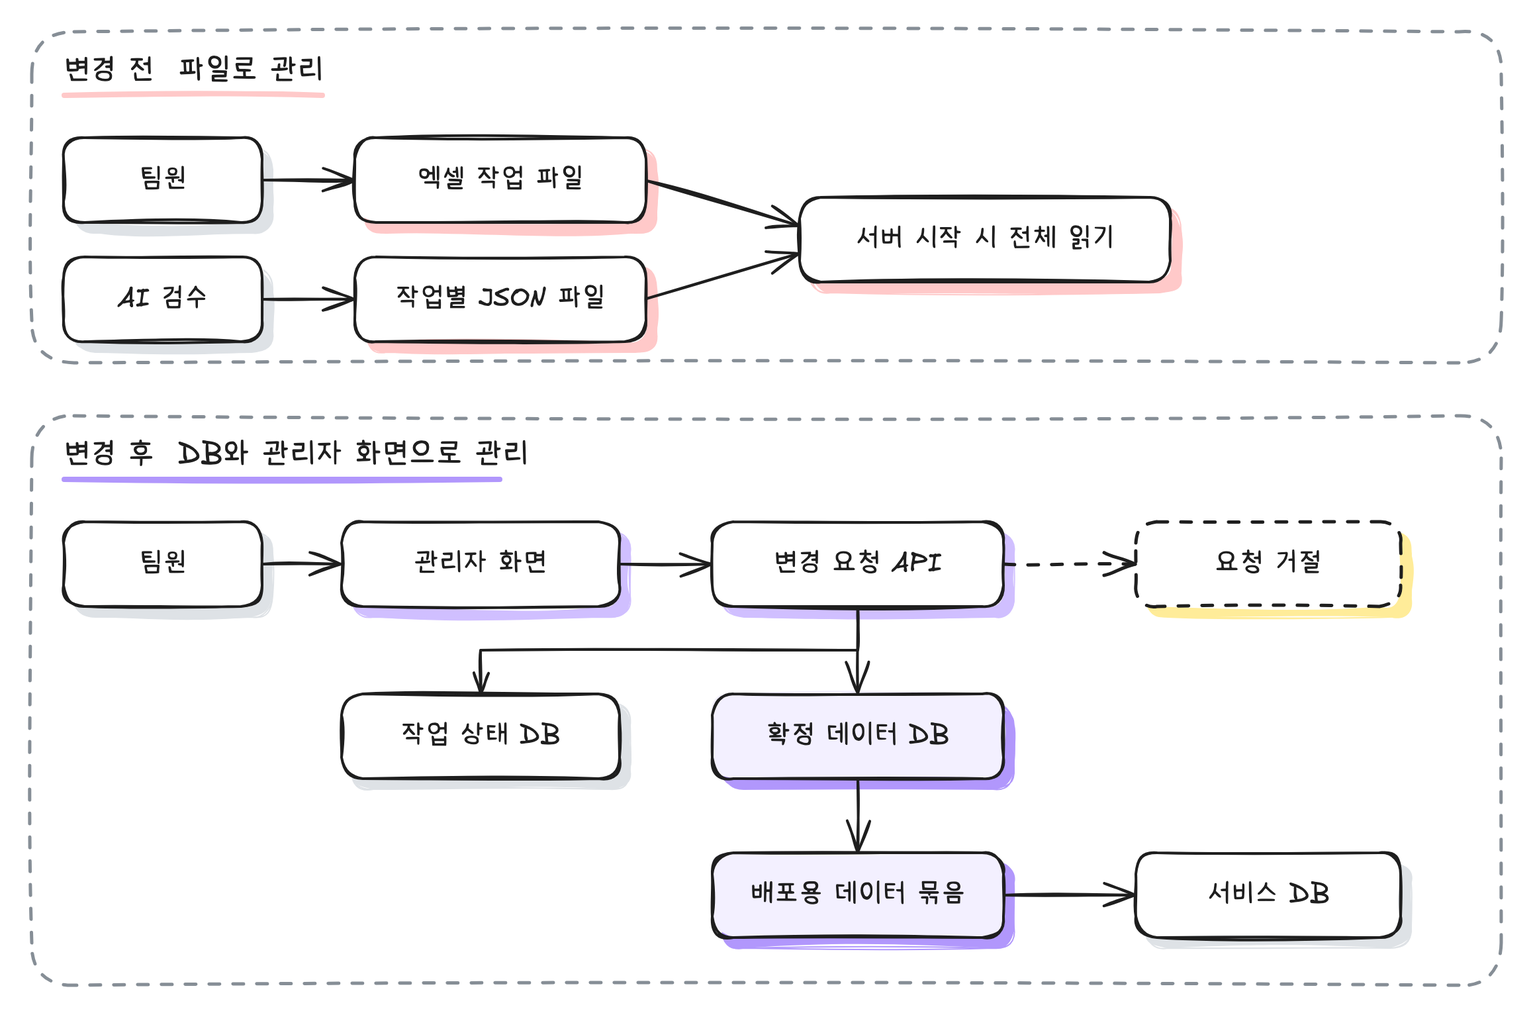
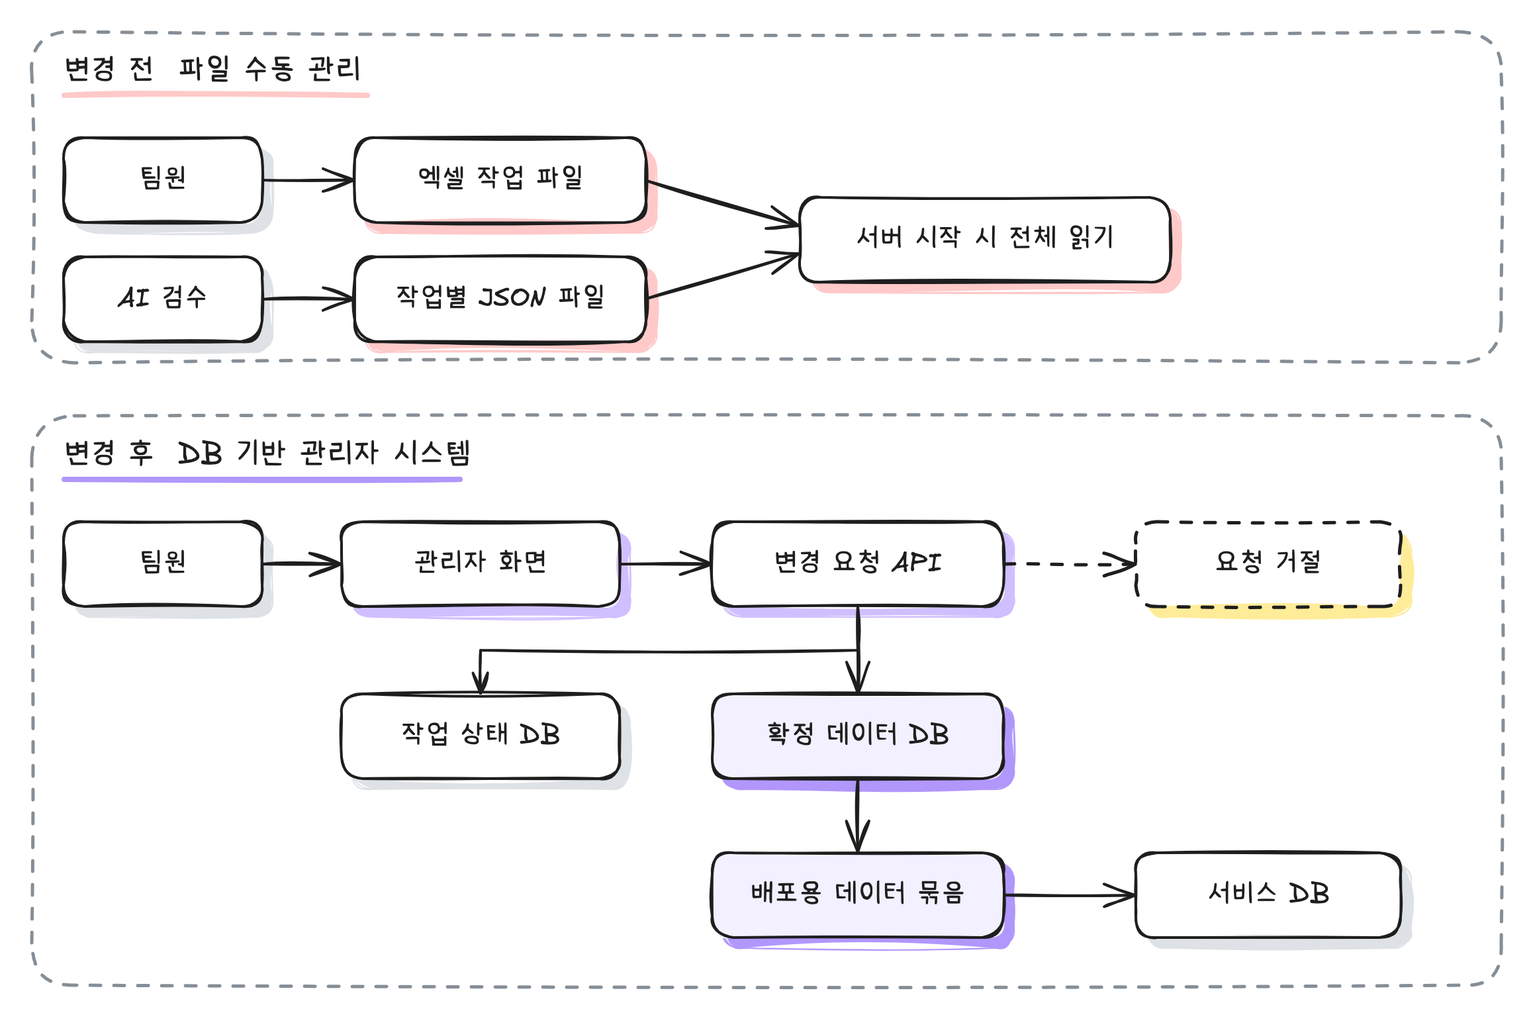
portfolio: 사례 제목과 요약에 기술 용어 보강, 다이어그램 라벨 정리

diff --git a/index.html b/index.html
@@ -45,19 +45,19 @@
       <section id="cases" aria-labelledby="cases-title">
         <div class="sec-title"><h2 id="cases-title">문제 해결 기록</h2><span class="section-en">Selected cases</span></div>
         <ol class="case-index">
-<li><a href="#case-ingredient-admin"><span class="index-no">01</span><span class="index-title">파일로 관리하던 성분 데이터를 관리자 시스템으로 전환</span><span class="index-project">Poudy</span><span class="index-arrow" aria-hidden="true">↗</span></a></li>
-<li><a href="#case-data-pipeline"><span class="index-no">02</span><span class="index-title">파일과 LLM에 의존하던 데이터 처리를 단계별 파이프라인과 오케스트레이션 구조로 전환</span><span class="index-project">Poudy</span><span class="index-arrow" aria-hidden="true">↗</span></a></li>
-<li><a href="#case-poudy-infra"><span class="index-no">03</span><span class="index-title">자동 롤백에 가려 48시간 동안 몰랐던 배포 실패를 알림으로 바로 알 수 있게 개선</span><span class="index-project">Poudy</span><span class="index-arrow" aria-hidden="true">↗</span></a></li>
+<li><a href="#case-ingredient-admin"><span class="index-no">01</span><span class="index-title">파일로 수동 관리하던 성분 데이터를 승인 기반 관리자 시스템으로 전환</span><span class="index-project">Poudy</span><span class="index-arrow" aria-hidden="true">↗</span></a></li>
+<li><a href="#case-data-pipeline"><span class="index-no">02</span><span class="index-title">LLM 판단과 코드 검증을 분리한 3계층 성분 데이터 파이프라인 구축</span><span class="index-project">Poudy</span><span class="index-arrow" aria-hidden="true">↗</span></a></li>
+<li><a href="#case-poudy-infra"><span class="index-no">03</span><span class="index-title">자동 롤백에 가려 48시간 몰랐던 장애를 계기로 Grafana 모니터링과 팀 알림 도입</span><span class="index-project">Poudy</span><span class="index-arrow" aria-hidden="true">↗</span></a></li>
 <li><a href="#case-like"><span class="index-no">04</span><span class="index-title">동시 요청과 재시도로 발생한 좋아요 오류 해결</span><span class="index-project">Layer Archive</span><span class="index-arrow" aria-hidden="true">↗</span></a></li>
-<li><a href="#case-list-query"><span class="index-no">05</span><span class="index-title">게시글마다 이미지를 따로 불러오던 목록 조회 개선</span><span class="index-project">Layer Archive</span><span class="index-arrow" aria-hidden="true">↗</span></a></li>
+<li><a href="#case-list-query"><span class="index-no">05</span><span class="index-title">목록 조회의 N+1 쿼리 해결 (53회 → 4회)</span><span class="index-project">Layer Archive</span><span class="index-arrow" aria-hidden="true">↗</span></a></li>
 </ol>
 <article class="case" id="case-ingredient-admin" aria-labelledby="case-title-1">
   <div class="case-top"><span class="case-no">01</span><span class="proj">Poudy</span><span class="case-context">데이터 관리 / 2026.08 – 현재</span></div>
-  <h3 id="case-title-1">파일로 관리하던 성분 데이터를 관리자 시스템으로 전환</h3>
-  <p class="case-deck">엑셀과 JSON 파일로 관리하던 성분 데이터를 DB와 관리자 화면으로 옮겼습니다. 이제 승인된 변경만 서비스에 반영됩니다.</p>
+  <h3 id="case-title-1">파일로 수동 관리하던 성분 데이터를 승인 기반 관리자 시스템으로 전환</h3>
+  <p class="case-deck">엑셀과 JSON 파일로 나눠 관리하던 성분 데이터를 DB 기반 관리자 시스템으로 옮겼습니다. 변경은 API로만 요청하고 검증과 승인을 통과한 값만 반영되게 해, 파일끼리 값이 어긋나거나 데이터 때문에 서버가 켜지지 않는 문제를 막는 구조를 만들었습니다.</p>
   <figure>
-    <div class="figure-heading"><p class="figure-title">관리 방식 변경 전후</p><a href="assets/diagrams/ingredient-admin.png?v=4be4f8f2" data-diagram aria-label="관리 방식 변경 전후 크게 보기">크게 보기 ↗</a></div>
-    <a class="diagram-link" href="assets/diagrams/ingredient-admin.png?v=4be4f8f2" data-diagram aria-label="관리 방식 변경 전후 이미지 확대"><img class="diagram-image" src="assets/diagrams/ingredient-admin.png?v=4be4f8f2" width="2316" height="1536" alt="변경 전에는 팀원과 AI 검수가 엑셀과 작업별 JSON 파일을 직접 다루고, 서버가 켜질 때 파일 전체를 검사 없이 읽었다. 변경 후에는 관리자 화면에서 API로 변경을 요청하고, 승인된 변경만 확정 데이터에 반영한 뒤 서비스 스키마 검사를 통과한 묶음만 서비스 DB로 보낸다" loading="lazy" decoding="async"></a>
+    <div class="figure-heading"><p class="figure-title">관리 방식 변경 전후</p><a href="assets/diagrams/ingredient-admin.png?v=84834c3f" data-diagram aria-label="관리 방식 변경 전후 크게 보기">크게 보기 ↗</a></div>
+    <a class="diagram-link" href="assets/diagrams/ingredient-admin.png?v=84834c3f" data-diagram aria-label="관리 방식 변경 전후 이미지 확대"><img class="diagram-image" src="assets/diagrams/ingredient-admin.png?v=84834c3f" width="2316" height="1536" alt="변경 전에는 팀원과 AI 검수가 엑셀과 작업별 JSON 파일을 직접 다루고, 서버가 켜질 때 파일 전체를 검사 없이 읽었다. 변경 후에는 관리자 화면에서 API로 변경을 요청하고, 승인된 변경만 확정 데이터에 반영한 뒤 서비스 스키마 검사를 통과한 묶음만 서비스 DB로 보낸다" loading="lazy" decoding="async"></a>
   </figure>
   <div class="psr">
     <div>
@@ -91,11 +91,11 @@
 </article>
 <article class="case" id="case-data-pipeline" aria-labelledby="case-title-2">
   <div class="case-top"><span class="case-no">02</span><span class="proj">Poudy</span><span class="case-context">데이터 파이프라인 / 2026.08 – 현재</span></div>
-  <h3 id="case-title-2">파일과 LLM에 의존하던 데이터 처리를 단계별 파이프라인과 오케스트레이션 구조로 전환</h3>
-  <p class="case-deck">데이터를 원본 보관, 정리와 확정, 서비스 전달 세 단계로 나누고, 단계마다 코드가 할 일과 AI가 할 일을 구분했습니다.</p>
+  <h3 id="case-title-2">LLM 판단과 코드 검증을 분리한 3계층 성분 데이터 파이프라인 구축</h3>
+  <p class="case-deck">성분 데이터를 처리 단계별 3계층(L0 원본 보관, L1 정리와 확정, L2 서비스 전달)으로 나누고, 답이 정해진 검증은 코드가, 판단이 필요한 작업만 LLM이 맡도록 역할을 나눴습니다.</p>
   <figure>
-    <div class="figure-heading"><p class="figure-title">데이터 처리 단계와 원료 한 건의 처리 순서</p><a href="assets/diagrams/data-hub-layers.png?v=2b885413" data-diagram aria-label="데이터 처리 단계와 원료 한 건의 처리 순서 크게 보기">크게 보기 ↗</a></div>
-    <a class="diagram-link" href="assets/diagrams/data-hub-layers.png?v=2b885413" data-diagram aria-label="데이터 처리 단계와 원료 한 건의 처리 순서 이미지 확대"><img class="diagram-image" src="assets/diagrams/data-hub-layers.png?v=2b885413" width="2244" height="1872" alt="데이터를 원본 보관, 정리와 확정, 서비스 전달 세 단계로 나눈다. 원료 한 건은 작업을 가져와 입력을 준비한 뒤 LLM이 근거 찾기, 근거 고르기, 설명과 태그 쓰기, 다른 역할의 검토를 거치고, 규칙 검사 결과에 따라 확정 데이터 반영, 사람 확인 대기, 재시도나 보류로 나뉜다" loading="lazy" decoding="async"></a>
+    <div class="figure-heading"><p class="figure-title">데이터 3계층 구조와 원료 한 건의 처리 흐름</p><a href="assets/diagrams/data-hub-layers.png?v=e1845fb2" data-diagram aria-label="데이터 3계층 구조와 원료 한 건의 처리 흐름 크게 보기">크게 보기 ↗</a></div>
+    <a class="diagram-link" href="assets/diagrams/data-hub-layers.png?v=e1845fb2" data-diagram aria-label="데이터 3계층 구조와 원료 한 건의 처리 흐름 이미지 확대"><img class="diagram-image" src="assets/diagrams/data-hub-layers.png?v=e1845fb2" width="2244" height="1872" alt="데이터를 L0 원본 보관, L1 정리와 확정, L2 서비스 전달 세 계층으로 나눈다. 원료 한 건은 작업을 가져와 입력을 준비한 뒤 LLM이 근거 찾기, 근거 고르기, 설명과 태그 쓰기, 다른 역할의 검토를 거치고, 규칙 검사 결과에 따라 확정 데이터 반영, 사람 확인 대기, 재시도나 보류로 나뉜다" loading="lazy" decoding="async"></a>
   </figure>
   <div class="psr">
     <div>
@@ -109,7 +109,7 @@
     <div>
       <p class="label">해결 과정</p>
       <ul>
-        <li>데이터를 세 단계로 나눴습니다. 받은 원본은 고치지 않고 보관하고, 다음 단계에서 형식을 맞추고 중복과 충돌을 확인한 뒤 승인된 값만 확정합니다. 마지막 단계에서 서비스 스키마에 맞게 묶습니다. 메달리온 구조를 우리 데이터에 맞게 바꿔 적용했습니다.</li>
+        <li>데이터를 세 계층으로 나눴습니다. 받은 원본은 고치지 않고 보관하고, 다음 단계에서 형식을 맞추고 중복과 충돌을 확인한 뒤 승인된 값만 확정합니다. 마지막 단계에서 서비스 스키마에 맞게 묶습니다. 메달리온 구조를 우리 데이터에 맞게 바꿔 적용했습니다.</li>
         <li>단계마다 누가 처리할지 정했습니다. 파일 읽기, 형식 정리, 중복 검사, 배포용 묶음 만들기처럼 답이 정해진 일은 Python 코드가 합니다. 근거 찾기, 설명 쓰기, 검토처럼 판단이 필요한 일만 LLM에게 맡겼습니다.</li>
         <li>LLM 단계는 LangGraph로 묶어 찾기, 고르기, 쓰기, 검토 순서로 흐르게 했습니다. 사람 확인이 필요하면 멈췄다가, 확인한 뒤 같은 자리에서 이어갑니다.</li>
         <li>작업 순서와 재시도는 SQLite로 관리합니다. 시간 초과처럼 다시 하면 풀리는 실패는 잠시 뒤 재시도하고, 다시 물어도 같은 답이 나올 실패는 보류로 돌린 뒤 다음 원료를 처리합니다.</li>
@@ -129,8 +129,8 @@
 </article>
 <article class="case" id="case-poudy-infra" aria-labelledby="case-title-3">
   <div class="case-top"><span class="case-no">03</span><span class="proj">Poudy</span><span class="case-context">배포 / 모니터링 / 2026.09</span></div>
-  <h3 id="case-title-3">자동 롤백에 가려 48시간 동안 몰랐던 배포 실패를 알림으로 바로 알 수 있게 개선</h3>
-  <p class="case-deck">배포가 실패해도 롤백 덕분에 화면은 정상으로 보여 아무도 몰랐던 문제를, 백엔드 프로세스까지 보는 모니터링과 팀 Discord 알림으로 바꿨습니다.</p>
+  <h3 id="case-title-3">자동 롤백에 가려 48시간 몰랐던 장애를 계기로 Grafana 모니터링과 팀 알림 도입</h3>
+  <p class="case-deck">배포가 실패해도 롤백 덕분에 화면은 정상으로 보여 아무도 몰랐던 문제를 계기로, Prometheus, Loki, Grafana로 백엔드 프로세스까지 관측하고 팀 Discord로 알리는 구조를 만들었습니다.</p>
   <figure>
     <div class="figure-heading"><p class="figure-title">운영 구조와 모니터링, 알림 경로</p><a href="assets/diagrams/poudy-monitoring.png?v=5373d349" data-diagram aria-label="운영 구조와 모니터링, 알림 경로 크게 보기">크게 보기 ↗</a></div>
     <a class="diagram-link" href="assets/diagrams/poudy-monitoring.png?v=5373d349" data-diagram aria-label="운영 구조와 모니터링, 알림 경로 이미지 확대"><img class="diagram-image" src="assets/diagrams/poudy-monitoring.png?v=5373d349" width="2428" height="1712" alt="사용자 요청은 Frontend EC2의 Nginx와 Next.js를 거쳐 Backend EC2의 Spring Boot로 가고, Spring Boot는 DB EC2의 PostgreSQL과 S3를 사용한다. Frontend와 Backend EC2의 Alloy가 지표와 로그를 Cloudflare Tunnel을 통해 Monitoring EC2의 Prometheus와 Loki로 보내고, Blackbox의 확인 결과와 함께 Grafana에 모인다. Grafana는 알림을 팀 Discord로 보낸다" loading="lazy" decoding="async"></a>
@@ -166,10 +166,10 @@
 <article class="case" id="case-like" aria-labelledby="case-title-4">
   <div class="case-top"><span class="case-no">04</span><span class="proj">Layer Archive</span><span class="case-context">동시성 / 멱등성 / 2026.07</span></div>
   <h3 id="case-title-4">동시 요청과 재시도로 발생한 좋아요 오류 해결</h3>
-  <p class="case-deck">같은 사용자의 요청이 동시에 들어오면 실패하던 좋아요를 행 잠금으로 순서대로 처리하고, 재시도해도 결과가 같은 API로 바꿨습니다.</p>
+  <p class="case-deck">같은 사용자의 동시 요청에서 나던 중복 오류를 사용자 행 비관적 락(SELECT … FOR UPDATE)으로 순서대로 처리해 없애고, 토글 API를 원하는 상태를 지정하는 방식으로 바꿔 재시도해도 결과가 같도록(멱등성) 했습니다.</p>
   <figure>
-    <div class="figure-heading"><p class="figure-title">동시 요청 처리 변경 전후</p><a href="assets/diagrams/concurrent-likes.png?v=b977023b" data-diagram aria-label="동시 요청 처리 변경 전후 크게 보기">크게 보기 ↗</a></div>
-    <a class="diagram-link" href="assets/diagrams/concurrent-likes.png?v=b977023b" data-diagram aria-label="동시 요청 처리 변경 전후 이미지 확대"><img class="diagram-image" src="assets/diagrams/concurrent-likes.png?v=b977023b" width="2416" height="1336" alt="변경 전에는 요청 A와 B가 동시에 좋아요가 있는지 확인해 둘 다 없음으로 읽고, 둘 다 좋아요를 추가해 한쪽은 성공하고 다른 쪽은 중복 오류가 난다. 변경 후에는 두 요청이 사용자 행 잠금을 거쳐 하나씩 처리되고, A가 좋아요를 추가한 뒤 B는 이미 좋아요라 그대로 두어 좋아요 1개, 오류 없음으로 끝난다" loading="lazy" decoding="async"></a>
+    <div class="figure-heading"><p class="figure-title">동시 요청 처리 변경 전후</p><a href="assets/diagrams/concurrent-likes.png?v=3e1d93ab" data-diagram aria-label="동시 요청 처리 변경 전후 크게 보기">크게 보기 ↗</a></div>
+    <a class="diagram-link" href="assets/diagrams/concurrent-likes.png?v=3e1d93ab" data-diagram aria-label="동시 요청 처리 변경 전후 이미지 확대"><img class="diagram-image" src="assets/diagrams/concurrent-likes.png?v=3e1d93ab" width="2416" height="1336" alt="변경 전에는 요청 A와 B가 동시에 좋아요가 있는지 확인해 둘 다 없음으로 읽고, 둘 다 좋아요를 추가해 한쪽은 성공하고 다른 쪽은 중복 오류가 난다. 변경 후에는 두 요청이 사용자 행 잠금(FOR UPDATE)을 거쳐 하나씩 처리되고, A가 좋아요를 추가한 뒤 B는 이미 좋아요라 그대로 두어 좋아요 1개, 오류 없음으로 끝난다" loading="lazy" decoding="async"></a>
   </figure>
   <div class="psr">
     <div>
@@ -202,11 +202,11 @@
 </article>
 <article class="case" id="case-list-query" aria-labelledby="case-title-5">
   <div class="case-top"><span class="case-no">05</span><span class="proj">Layer Archive</span><span class="case-context">조회 성능 / 2026.07</span></div>
-  <h3 id="case-title-5">게시글마다 이미지를 따로 불러오던 목록 조회 개선</h3>
-  <p class="case-deck">목록에는 필요 없는 이미지까지 게시글마다 따로 불러오던 구조를 목록 전용 응답으로 나눠, 게시글 50건 기준 쿼리를 53회에서 4회로 줄였습니다.</p>
+  <h3 id="case-title-5">목록 조회의 N+1 쿼리 해결 (53회 → 4회)</h3>
+  <p class="case-deck">목록에는 필요 없는 이미지 연관관계를 게시글마다 따로 불러오던 N+1 문제를 목록 전용 응답 DTO로 분리해 해결하고, 게시글 50건 기준 쿼리 수를 53회에서 4회로 줄였습니다.</p>
   <figure>
-    <div class="figure-heading"><p class="figure-title">목록 조회 쿼리 흐름 변경 전후</p><a href="assets/diagrams/gallery-list-queries.png?v=fada7a15" data-diagram aria-label="목록 조회 쿼리 흐름 변경 전후 크게 보기">크게 보기 ↗</a></div>
-    <a class="diagram-link" href="assets/diagrams/gallery-list-queries.png?v=fada7a15" data-diagram aria-label="목록 조회 쿼리 흐름 변경 전후 이미지 확대"><img class="diagram-image" src="assets/diagrams/gallery-list-queries.png?v=fada7a15" width="2376" height="1376" alt="변경 전에는 게시글 50건을 조회한 뒤 게시글마다 이미지를 따로 조회하고 좋아요 수와 태그를 조회해 쿼리가 53회 나간다. 변경 후에는 게시글 목록과 전체 개수를 조회하고 이미지는 조회하지 않으며 좋아요 수와 태그를 한 번에 조회해 쿼리가 4회로 줄어든다" loading="lazy" decoding="async"></a>
+    <div class="figure-heading"><p class="figure-title">목록 조회 쿼리 흐름 변경 전후</p><a href="assets/diagrams/gallery-list-queries.png?v=b0a14516" data-diagram aria-label="목록 조회 쿼리 흐름 변경 전후 크게 보기">크게 보기 ↗</a></div>
+    <a class="diagram-link" href="assets/diagrams/gallery-list-queries.png?v=b0a14516" data-diagram aria-label="목록 조회 쿼리 흐름 변경 전후 이미지 확대"><img class="diagram-image" src="assets/diagrams/gallery-list-queries.png?v=b0a14516" width="2376" height="1376" alt="변경 전에는 게시글 50건을 조회한 뒤 게시글마다 이미지를 따로 조회하는 N+1이 50회 생기고 좋아요 수와 태그를 IN 조회로 한 번씩 조회해 쿼리가 53회 나간다. 변경 후에는 게시글 목록과 전체 개수를 조회하고 목록 전용 DTO라 이미지는 조회하지 않으며 좋아요 수와 태그를 IN 조회로 한 번씩 조회해 쿼리가 4회로 줄어든다" loading="lazy" decoding="async"></a>
   </figure>
   <div class="psr">
     <div>
@@ -220,7 +220,7 @@
     <div>
       <p class="label">해결 과정</p>
       <ul>
-        <li>이미지 목록을 뺀 <b>목록 전용 응답</b>을 따로 만들고, 이미지 전체는 상세 조회에서만 담게 나눴습니다.</li>
+        <li>이미지 목록을 뺀 <b>목록 전용 응답 DTO</b>을 따로 만들고, 이미지 전체는 상세 조회에서만 담게 나눴습니다.</li>
         <li>목록 조회는 작성자와 카테고리만 함께 가져오고(fetch join), 좋아요 수와 태그는 게시글 ID 목록으로 <b>한 번에 모아 조회</b>합니다.</li>
         <li>서버 페이징을 도입해 한 번에 최대 50건만 읽게 했습니다.</li>
         <li>이미지를 함께 담는 기존 응답이 마이페이지 목록에 남아 있어, 같은 데이터로 두 경로를 비교해 효과를 측정했습니다.</li>

diff --git a/scripts/excalidraw/gallery-list-queries.py b/scripts/excalidraw/gallery-list-queries.py
@@ -25,22 +25,22 @@ arrow('aa2',200,260,[[0,0],[0,50]])
 # stacked cards for repeated image queries
 plain('st3',94,334,260,60,'#ffc9c9'); plain('st2',82,322,260,60,'#ffe3e3')
 E.append({"type":"rectangle","id":"a3","x":70,"y":310,"width":260,"height":60,"backgroundColor":"#ffffff","fillStyle":"solid","strokeColor":INK,"strokeWidth":2,"roundness":{"type":3},"label":{"text":"이미지 조회","fontSize":20}})
-arrow('loop',330,340,[[0,0],[90,0],[90,-100],[10,-100]],label='게시글마다 50번',dashed=True)
+arrow('loop',330,340,[[0,0],[90,0],[90,-100],[10,-100]],label='N+1 반복 50회',dashed=True)
 arrow('aa3',200,394,[[0,0],[0,46]])
-box('a4',70,440,260,60,'좋아요 수, 태그 조회',GRAY)
+box('a4',70,440,260,60,'좋아요 수, 태그\nIN 조회 각 1회',GRAY,fs=18)
 arrow('aa4',200,500,[[0,0],[0,50]])
 box('a5',70,550,260,70,'쿼리 53회',PINK,fill='#fff5f5',fs=24)
 # after
-frame('fr',600,20,560,640); text('tr',624,36,'변경 후  목록 전용 응답'); uline('ur',624,68,250,LAV2)
+frame('fr',600,20,560,640); text('tr',624,36,'변경 후  목록 전용 DTO'); uline('ur',624,68,235,LAV2)
 box('b1',650,100,260,60,'목록 요청',GRAY)
 arrow('bb1',780,160,[[0,0],[0,40]])
 box('b2',650,200,260,60,'게시글 목록 조회',LAV)
 box('b2c',940,200,190,60,'전체 개수 조회',LAV)
 arrow('bb2c',910,230,[[0,0],[30,0]])
 arrow('bb2',780,260,[[0,0],[0,50]])
-box('b3',650,310,260,60,'이미지 조회 안 함',GRAY,dashed=True,stroke='#868e96')
+box('b3',650,310,260,60,'이미지 조회 제외\n(목록 전용 DTO)',GRAY,dashed=True,stroke='#868e96',fs=18)
 arrow('bb3',780,370,[[0,0],[0,70]])
-box('b4',650,440,260,60,'좋아요 수, 태그 한 번에',LAV)
+box('b4',650,440,260,60,'좋아요 수, 태그\nIN 조회 각 1회',LAV,fs=18)
 arrow('bb4',780,500,[[0,0],[0,50]])
 box('b5',650,550,260,70,'쿼리 4회',LAV2,fill=LAVF,fs=24)
 print(json.dumps(E,ensure_ascii=False,separators=(',',':')))

diff --git a/scripts/excalidraw/ingredient-admin.py b/scripts/excalidraw/ingredient-admin.py
@@ -17,14 +17,14 @@ PINK='#ffc9c9'; LAV='#d0bfff'; LAV2='#b197fc'; LAVF='#f3f0ff'; YEL='#ffec99'; GR
 H=64
 cam(-40,-10,1200,900)
 # before
-frame('fb',20,20,1110,250); text('tb',44,36,'변경 전  파일로 관리',22); uline('ub',44,68,196,PINK)
+frame('fb',20,20,1110,250); text('tb',44,36,'변경 전  파일 수동 관리',22); uline('ub',44,68,230,PINK)
 box('p1',44,100,150,H,'팀원',GRAY); box('p2',44,190,150,H,'AI 검수',GRAY)
 box('x1',264,100,220,H,'엑셀 작업 파일',PINK); box('x2',264,190,220,H,'작업별 JSON 파일',PINK)
 arrow('a1','p1','x1',194,132,[[0,0],[70,0]],[1,0.5],[0,0.5]); arrow('a2','p2','x2',194,222,[[0,0],[70,0]],[1,0.5],[0,0.5])
 box('x3',600,145,280,H,'서버 시작 시 전체 읽기',PINK)
 arrow('a3','x1','x3',484,132,[[0,0],[116,35]],[1,0.5],[0,0.35]); arrow('a4','x2','x3',484,222,[[0,0],[116,-35]],[1,0.5],[0,0.65])
 # after
-frame('fa',20,310,1110,430); text('ta',44,326,'변경 후  DB와 관리자 화면으로 관리',22); uline('ua',44,358,330,LAV2)
+frame('fa',20,310,1110,430); text('ta',44,326,'변경 후  DB 기반 관리자 시스템',22); uline('ua',44,358,300,LAV2)
 box('q1',44,390,150,H,'팀원',GRAY)
 box('s1',254,390,210,H,'관리자 화면',LAV)
 arrow('b1','q1','s1',194,422,[[0,0],[60,0]],[1,0.5],[0,0.5])

diff --git a/scripts/excalidraw/concurrent-likes.py b/scripts/excalidraw/concurrent-likes.py
@@ -24,11 +24,11 @@ for k,x in (('a',70),('b',330)):
 box('oa',70,450,200,64,'성공',GRAY)
 box('ob',330,450,200,64,'중복 오류',PINK,fill='#fff5f5')
 # after
-frame('fr',600,20,580,620); text('tr',624,36,'변경 후  행 잠금과 상태 지정 API'); uline('ur',624,68,340,LAV2)
+frame('fr',600,20,580,620); text('tr',624,36,'변경 후  비관적 락과 상태 지정 API'); uline('ur',624,68,340,LAV2)
 box('sa',650,110,220,56,'요청 A  좋아요',GRAY)
 box('sb',910,110,220,56,'요청 B  좋아요',GRAY)
 arrow('asa',760,166,[[0,0],[0,44]]); arrow('asb',1020,166,[[0,0],[0,44]])
-box('lk',700,210,380,60,'사용자 행 잠금',LAV)
+box('lk',700,210,380,60,'사용자 행 잠금 (FOR UPDATE)',LAV)
 arrow('alk',890,270,[[0,0],[0,70]],label='한 번에 하나씩')
 box('pa',700,340,380,56,'A: 좋아요 추가',LAV)
 arrow('apa',890,396,[[0,0],[0,34]])
